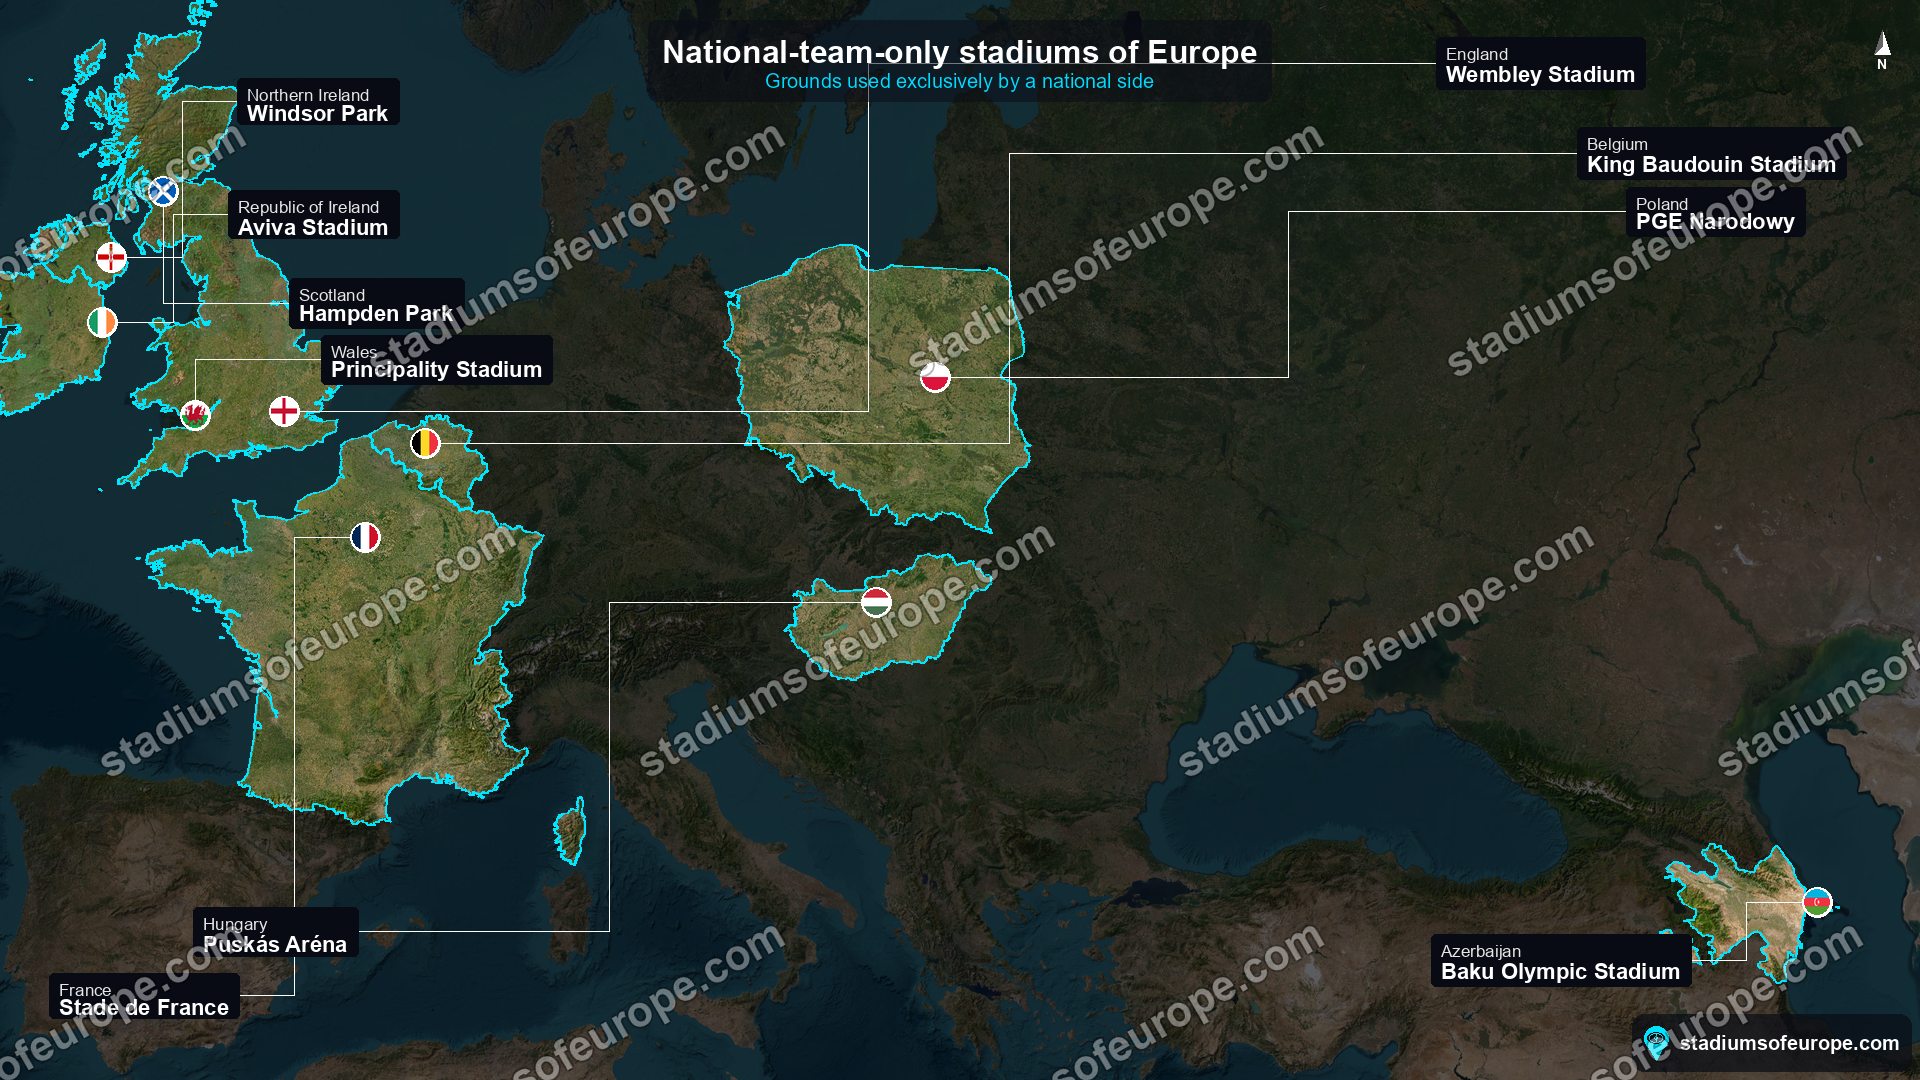
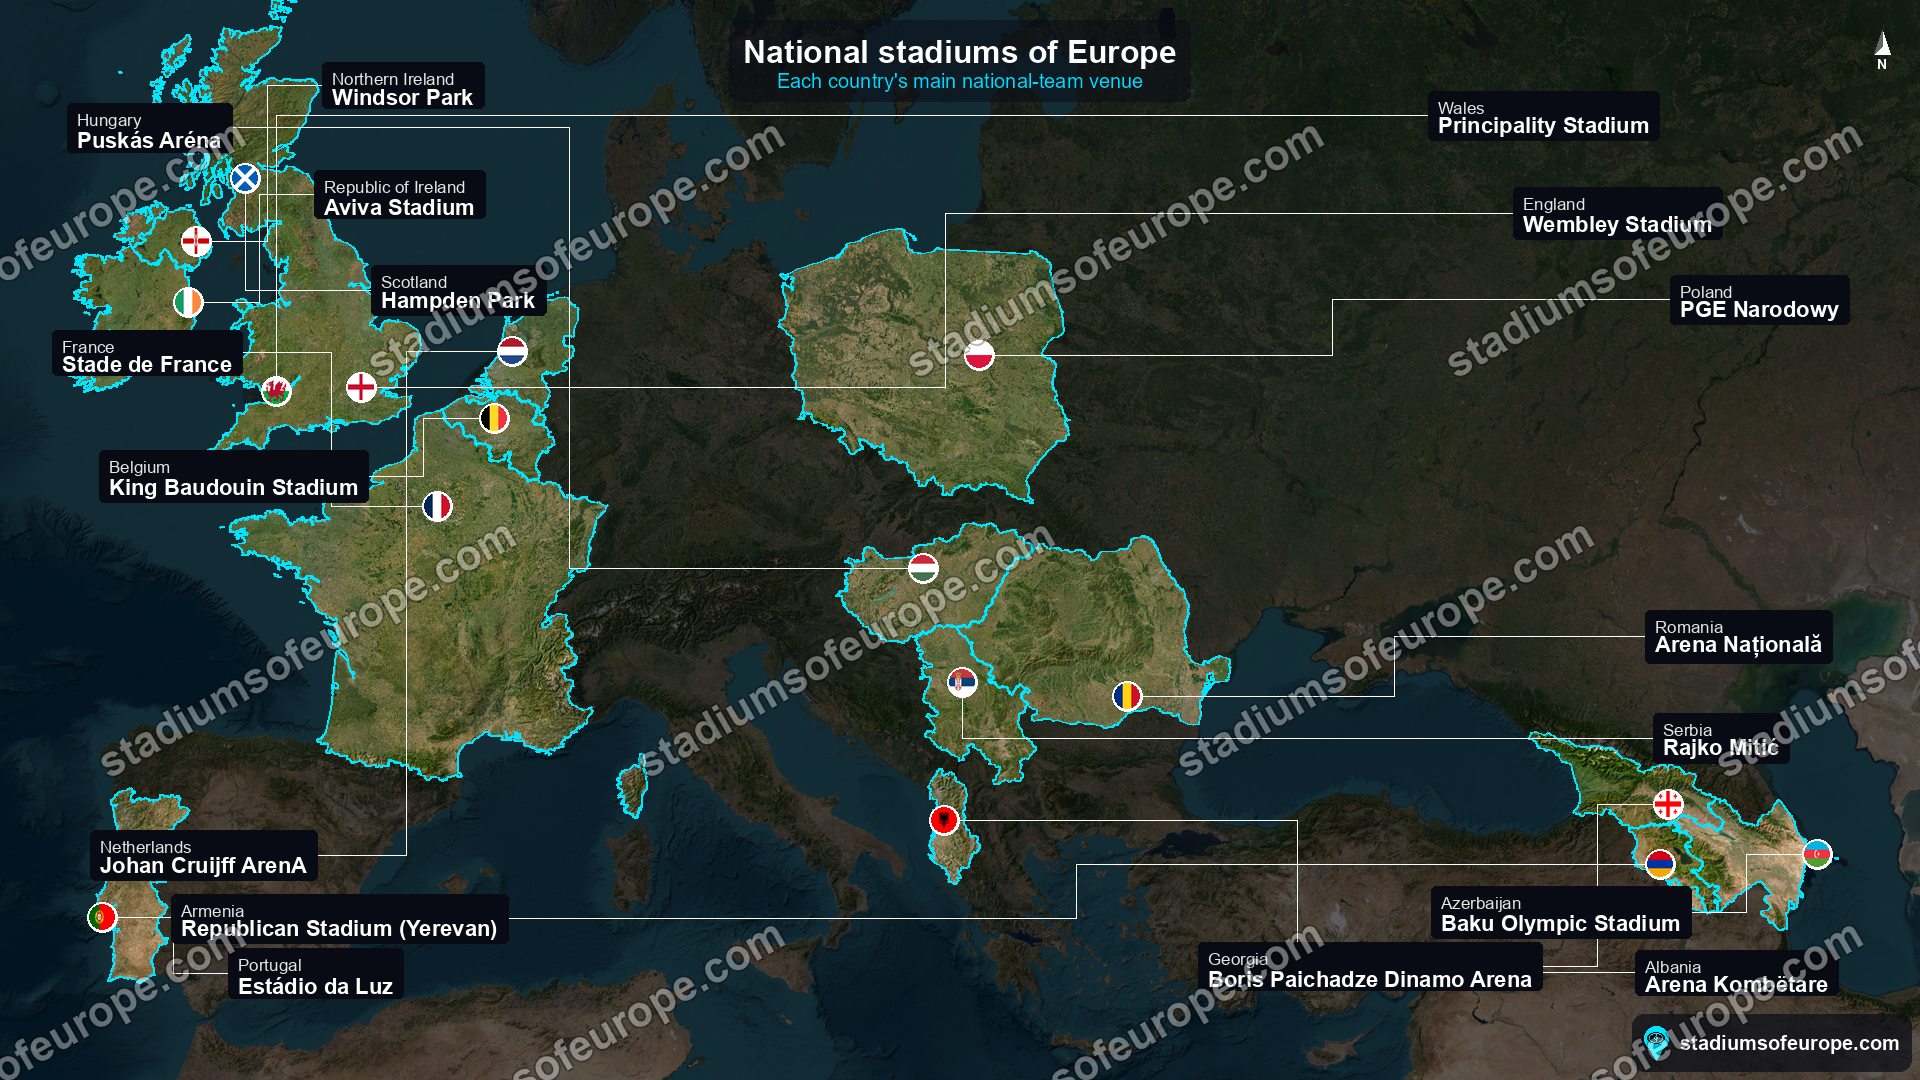
fix: national insight = all national stadiums (not only club-free); export navbar
- "National stadiums of Europe": broaden from national-team-ONLY to every ground that hosts
  a national side, so the famous shared ones appear (Netherlands/Johan Cruijff ArenA,
  Serbia/Rajko Mitić, Albania/Arena Kombëtare, Romania/Arena Națională, ...). 10 -> 17 venues.
  Table now flags each as "National-only" vs "Shared with club"; hero map + view=national +
  copy updated. Regenerated insight_national.png (national=1).
- Export page gets the full navbar (Map/Stadiums/Teams/Cities/Tournaments/Insights).

diff --git a/italianstadia/italiastadiaapp/templates/insight_national.html b/italianstadia/italiastadiaapp/templates/insight_national.html
@@ -1,11 +1,11 @@
 {% extends "base_detail.html" %}
 {% load static %}
 
-{% block title %}Europe's national-team-only stadiums — Stadiums of Europe{% endblock %}
+{% block title %}National stadiums of Europe — Stadiums of Europe{% endblock %}
 
 {% block meta %}
 <meta name="description" content="{{ page_description }}">
-<meta property="og:title" content="Europe's national-team-only stadiums">
+<meta property="og:title" content="National stadiums of Europe">
 <meta property="og:description" content="{{ page_description }}">
 <meta property="og:type" content="article">
 {% if hero_image %}
@@ -26,11 +26,11 @@
 
 {% block content %}
 <div class="container my-5">
-    <h1 class="mb-2">Europe's national-team-only stadiums</h1>
+    <h1 class="mb-2">National stadiums of Europe</h1>
     <p class="lead text-secondary mb-4">{{ intro }}</p>
 
     {% if hero_image %}
-    <img src="{% static hero_image %}" alt="Map of Europe's national-team-only stadiums"
+    <img src="{% static hero_image %}" alt="Map of national stadiums of Europe"
          class="img-fluid rounded shadow-sm mb-4" style="width:100%;height:auto;">
     {% endif %}
 
@@ -52,16 +52,17 @@
     {% endif %}
 
     <div class="card shadow-sm mb-4">
-        <div class="card-header bg-white"><strong>{{ count }} national-team-only grounds</strong></div>
+        <div class="card-header bg-white"><strong>{{ count }} national stadiums</strong></div>
         <div class="table-responsive">
             <table class="table table-hover mb-0">
-                <thead><tr><th>Stadium</th><th>National team</th><th>Country</th><th class="text-end">Capacity</th></tr></thead>
+                <thead><tr><th>Stadium</th><th>National team</th><th>Country</th><th>Dedicated?</th><th class="text-end">Capacity</th></tr></thead>
                 <tbody>
                 {% for r in rows %}
                     <tr>
                         <td><a href="{% url 'italiastadiaapp:stadium_detail' r.stadium.slug %}">{{ r.stadium.name }}</a></td>
                         <td>{{ r.nation }}</td>
                         <td>{{ r.country }}</td>
+                        <td>{% if r.dedicated %}<span class="badge bg-success">National-only</span>{% else %}<span class="badge bg-secondary">Shared with club</span>{% endif %}</td>
                         <td class="text-end">{% if r.capacity %}{{ r.capacity|floatformat:0 }}{% else %}—{% endif %}</td>
                     </tr>
                 {% endfor %}
@@ -75,7 +76,7 @@
 
 <script type="application/ld+json">
 {"@context":"https://schema.org","@type":"Dataset",
- "name":"Europe's national-team-only stadiums",
+ "name":"National stadiums of Europe",
  "description":"{{ page_description|escapejs }}",
  "url":"{{ request.scheme }}://{{ request.get_host }}{{ request.path }}"}
 </script>

diff --git a/italianstadia/italiastadiaapp/templates/export.html b/italianstadia/italiastadiaapp/templates/export.html
@@ -54,9 +54,14 @@
 </head>
 <body>
 <nav class="navbar navbar-dark bg-dark py-2 mb-4">
-    <div class="container-fluid px-4">
-        <a class="navbar-brand" href="/">Stadiums of Europe</a>
-        <a href="/" class="btn btn-sm btn-outline-light">← Map</a>
+    <div class="container-fluid px-4 d-flex flex-wrap align-items-center gap-2">
+        <a class="navbar-brand me-auto" href="/">Stadiums of Europe</a>
+        <a href="{% url 'italiastadiaapp:home' %}" class="nav-link d-inline text-light px-2">Map</a>
+        <a href="{% url 'italiastadiaapp:stadium_list' %}" class="nav-link d-inline text-light px-2">Stadiums</a>
+        <a href="{% url 'italiastadiaapp:team_list' %}" class="nav-link d-inline text-light px-2">Teams</a>
+        <a href="{% url 'italiastadiaapp:city_list' %}" class="nav-link d-inline text-light px-2">Cities</a>
+        <a href="{% url 'italiastadiaapp:tournament_detail' 'uefa-euro-2032' %}" class="nav-link d-inline text-light px-2">Tournaments</a>
+        <a href="{% url 'italiastadiaapp:insights_index' %}" class="nav-link d-inline text-light px-2">Insights</a>
     </div>
 </nav>
 

diff --git a/italianstadia/italiastadiaapp/views.py b/italianstadia/italiastadiaapp/views.py
@@ -481,11 +481,9 @@ def stadiums_geojson(request):
         qs = qs.filter(teams__league__country__name=param_country).distinct()
     # Insight views (see /insights/) — preset filters reused by the shared insights map JS.
     if param_view == "national":
-        # Grounds used EXCLUSIVELY by a national side (>=1 national team, 0 club teams).
-        qs = qs.annotate(
-            _nat=Count("teams", filter=Q(teams__is_national=True), distinct=True),
-            _club=Count("teams", filter=Q(teams__is_national=False), distinct=True),
-        ).filter(_nat__gte=1, _club=0)
+        # Any ground that hosts a national side (a country's national stadium, even if a
+        # club also plays there — e.g. Johan Cruijff ArenA, Rajko Mitić).
+        qs = qs.filter(teams__is_national=True).distinct()
     elif param_view == "surface":
         qs = qs.exclude(surface__isnull=True).exclude(surface="")
     elif param_view == "capacity":
@@ -1372,8 +1370,8 @@ def tournament_detail(request, slug):
 _INSIGHTS = [
     {
         "slug": "national-stadiums",
-        "title": "Europe's national-team-only stadiums",
-        "blurb": "Grounds used exclusively by a national side — no club tenant.",
+        "title": "National stadiums of Europe",
+        "blurb": "Each country's main national-team venue — and which are club-free.",
         "url_name": "insight_national",
         "image": "exports/insight_national.png",
     },
@@ -1421,30 +1419,36 @@ def insight_national(request):
           .annotate(
               _nat=Count("teams", filter=Q(teams__is_national=True), distinct=True),
               _club=Count("teams", filter=Q(teams__is_national=False), distinct=True))
-          .filter(_nat__gte=1, _club=0)
+          .filter(_nat__gte=1)
           .exclude(latitude__isnull=True))
     rows = []
+    dedicated = 0
     for s in qs:
         nat = next((t for t in s.teams.all() if t.is_national), None)
         country = nat.league.country.name if (nat and nat.league and nat.league.country) else (
             s.city.country if s.city else "")
+        is_dedicated = s._club == 0
+        if is_dedicated:
+            dedicated += 1
         rows.append({
             "stadium": s, "nation": nat.name if nat else "",
             "country": country, "capacity": s.capacity or 0,
+            "dedicated": is_dedicated,
         })
     rows.sort(key=lambda r: r["capacity"], reverse=True)
     total_cap = sum(r["capacity"] for r in rows)
     intro = (
-        f"Across Europe, {len(rows)} stadiums in our dataset are used exclusively by a "
-        "national team, with no club playing there week to week. These are typically "
-        "purpose-built or symbolic national grounds reserved for international fixtures. "
-        f"Together they seat about {total_cap:,} spectators."
+        f"Across Europe, {len(rows)} stadiums in our dataset host a national team — each "
+        f"country's main international venue. {dedicated} of them are used exclusively by the "
+        "national side; the rest are shared with a leading club. Together they seat about "
+        f"{total_cap:,} spectators."
     )
     about = (
-        "Most countries share their national stadium with a leading club, so a ground used "
-        "only by the national team is relatively rare and usually significant — a flagship "
-        "venue, a neutral national arena, or a tournament stadium awaiting a permanent "
-        "tenant. The map below shows each of these grounds; the table lists them by capacity."
+        "Most countries play their internationals at a stadium that a top club also calls "
+        "home — for example the Netherlands at the Johan Cruijff ArenA (Ajax) or Serbia at "
+        "the Rajko Mitić Stadium (Red Star). A truly dedicated national ground, used by no "
+        "club, is rarer and usually a flagship — Wembley, the Stade de France, the Puskás "
+        "Aréna. The table flags which grounds are dedicated; the map shows them all."
     )
     debate = (
         "The list could grow. Several countries are actively debating a dedicated national "

diff --git a/italianstadia/italiastadiaapp/management/commands/generate_insight_maps.py b/italianstadia/italiastadiaapp/management/commands/generate_insight_maps.py
@@ -25,10 +25,10 @@ class Command(BaseCommand):
     # key -> export query params
     MAPS = {
         "national": {
-            "national_only": "1", "spotlight": "1", "style_key": "satellite",
+            "national": "1", "spotlight": "1", "style_key": "satellite",
             "size_key": "landscape", "labels": "1", "legend": "0", "north": "1",
-            "title": "National-team-only stadiums of Europe",
-            "subtitle": "Grounds used exclusively by a national side",
+            "title": "National stadiums of Europe",
+            "subtitle": "Each country's main national-team venue",
         },
     }
 
